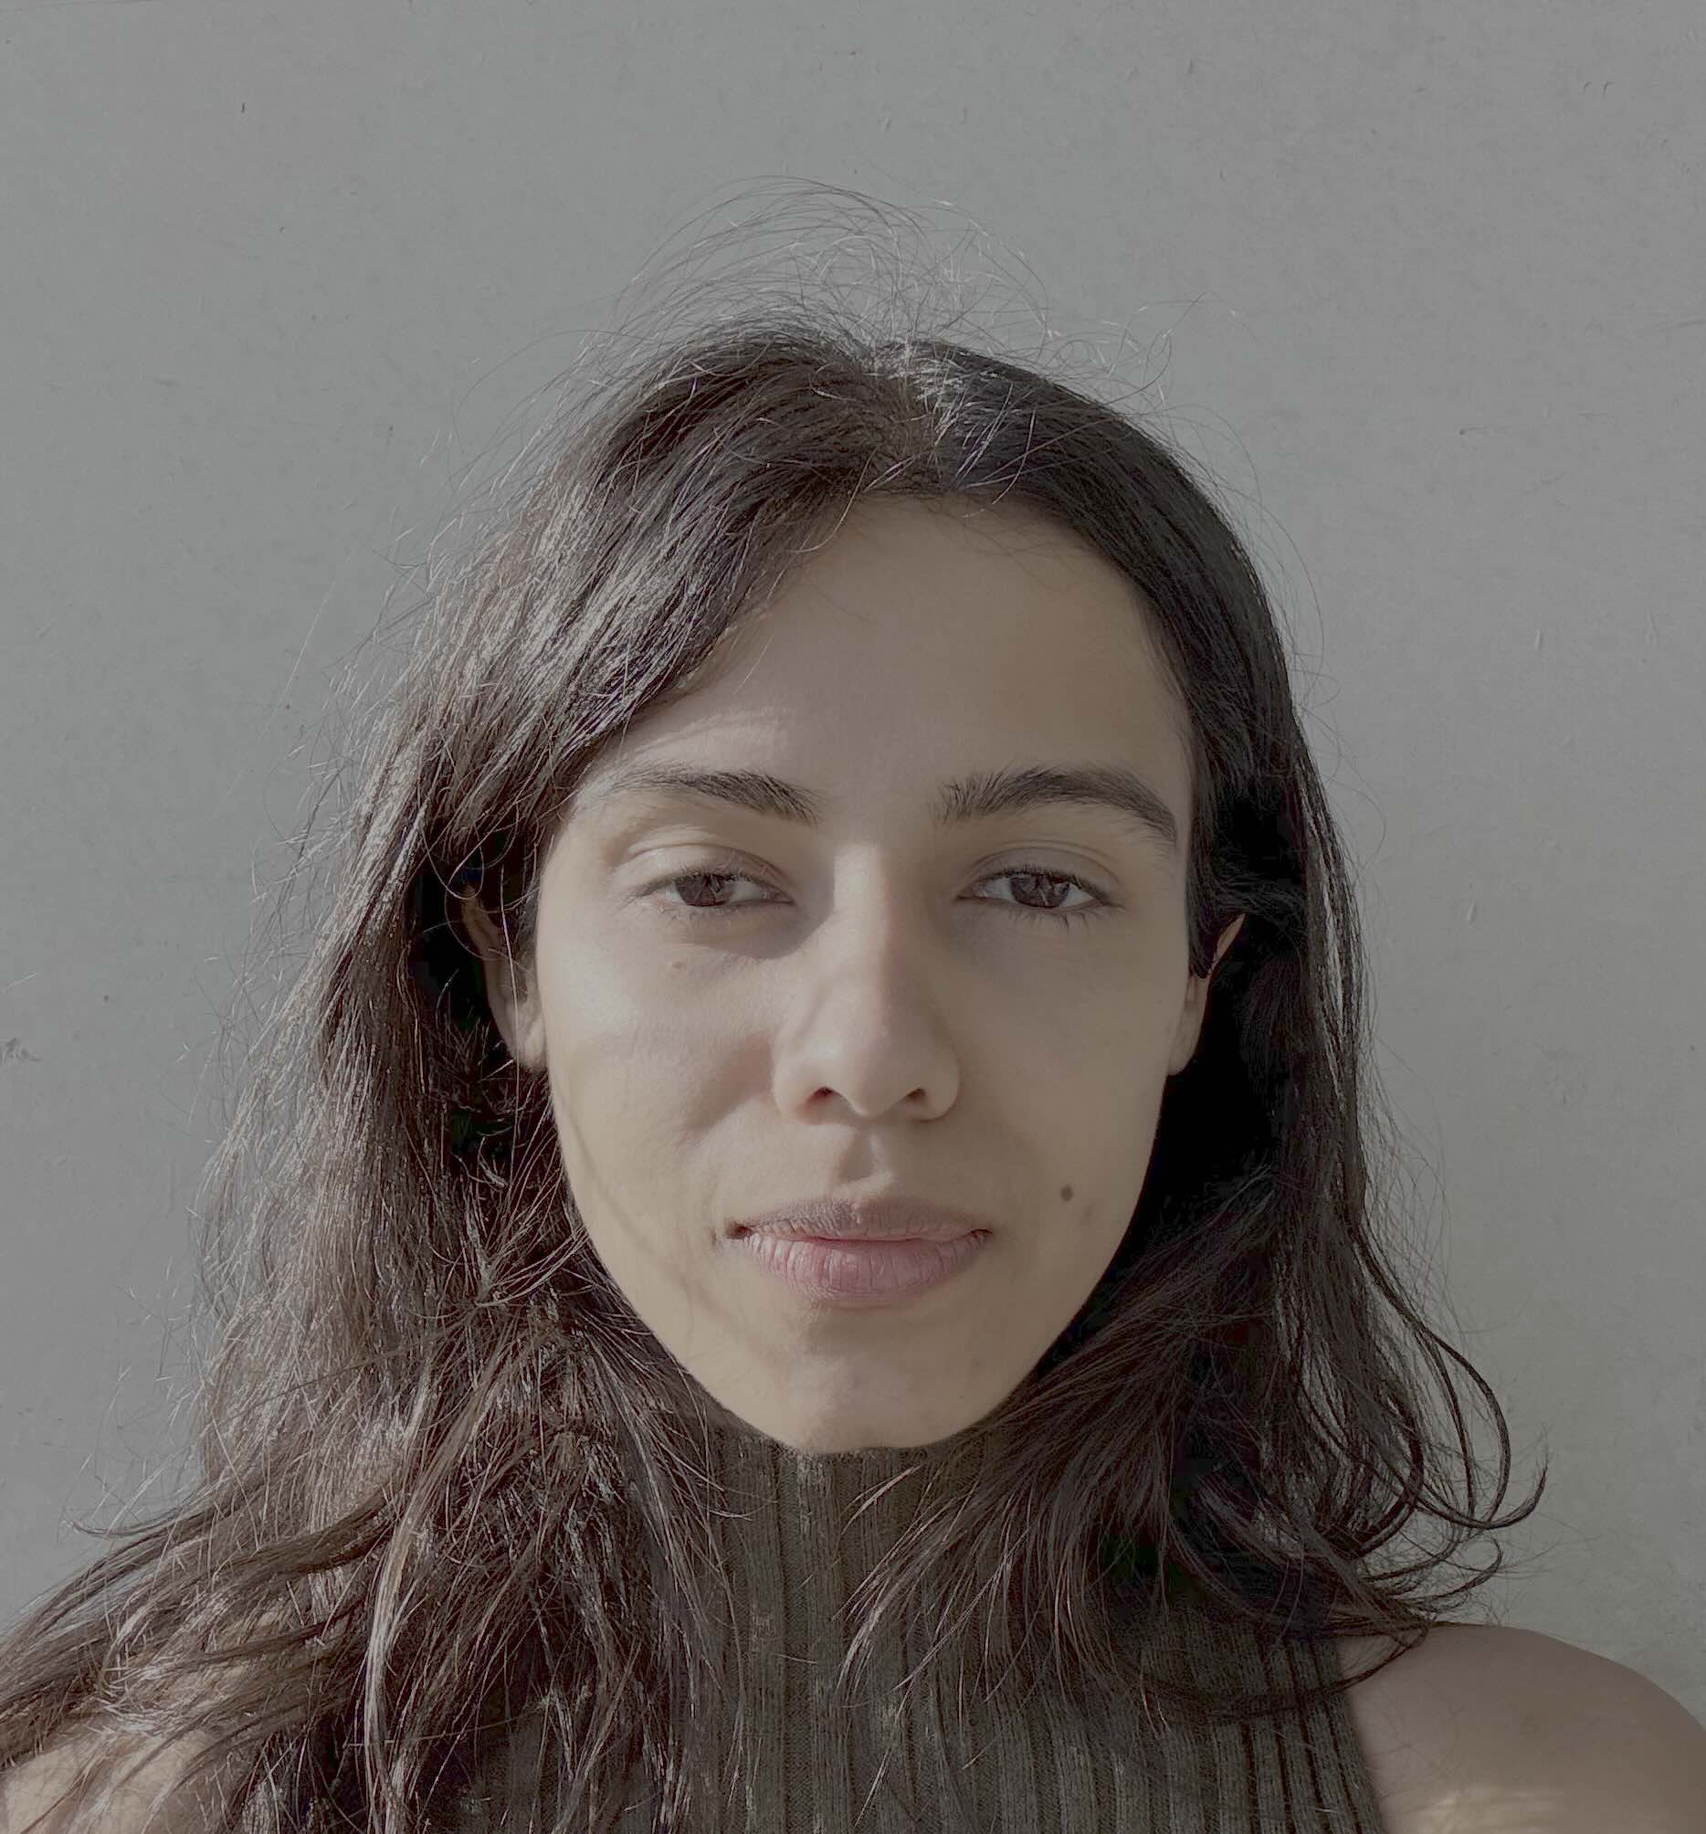
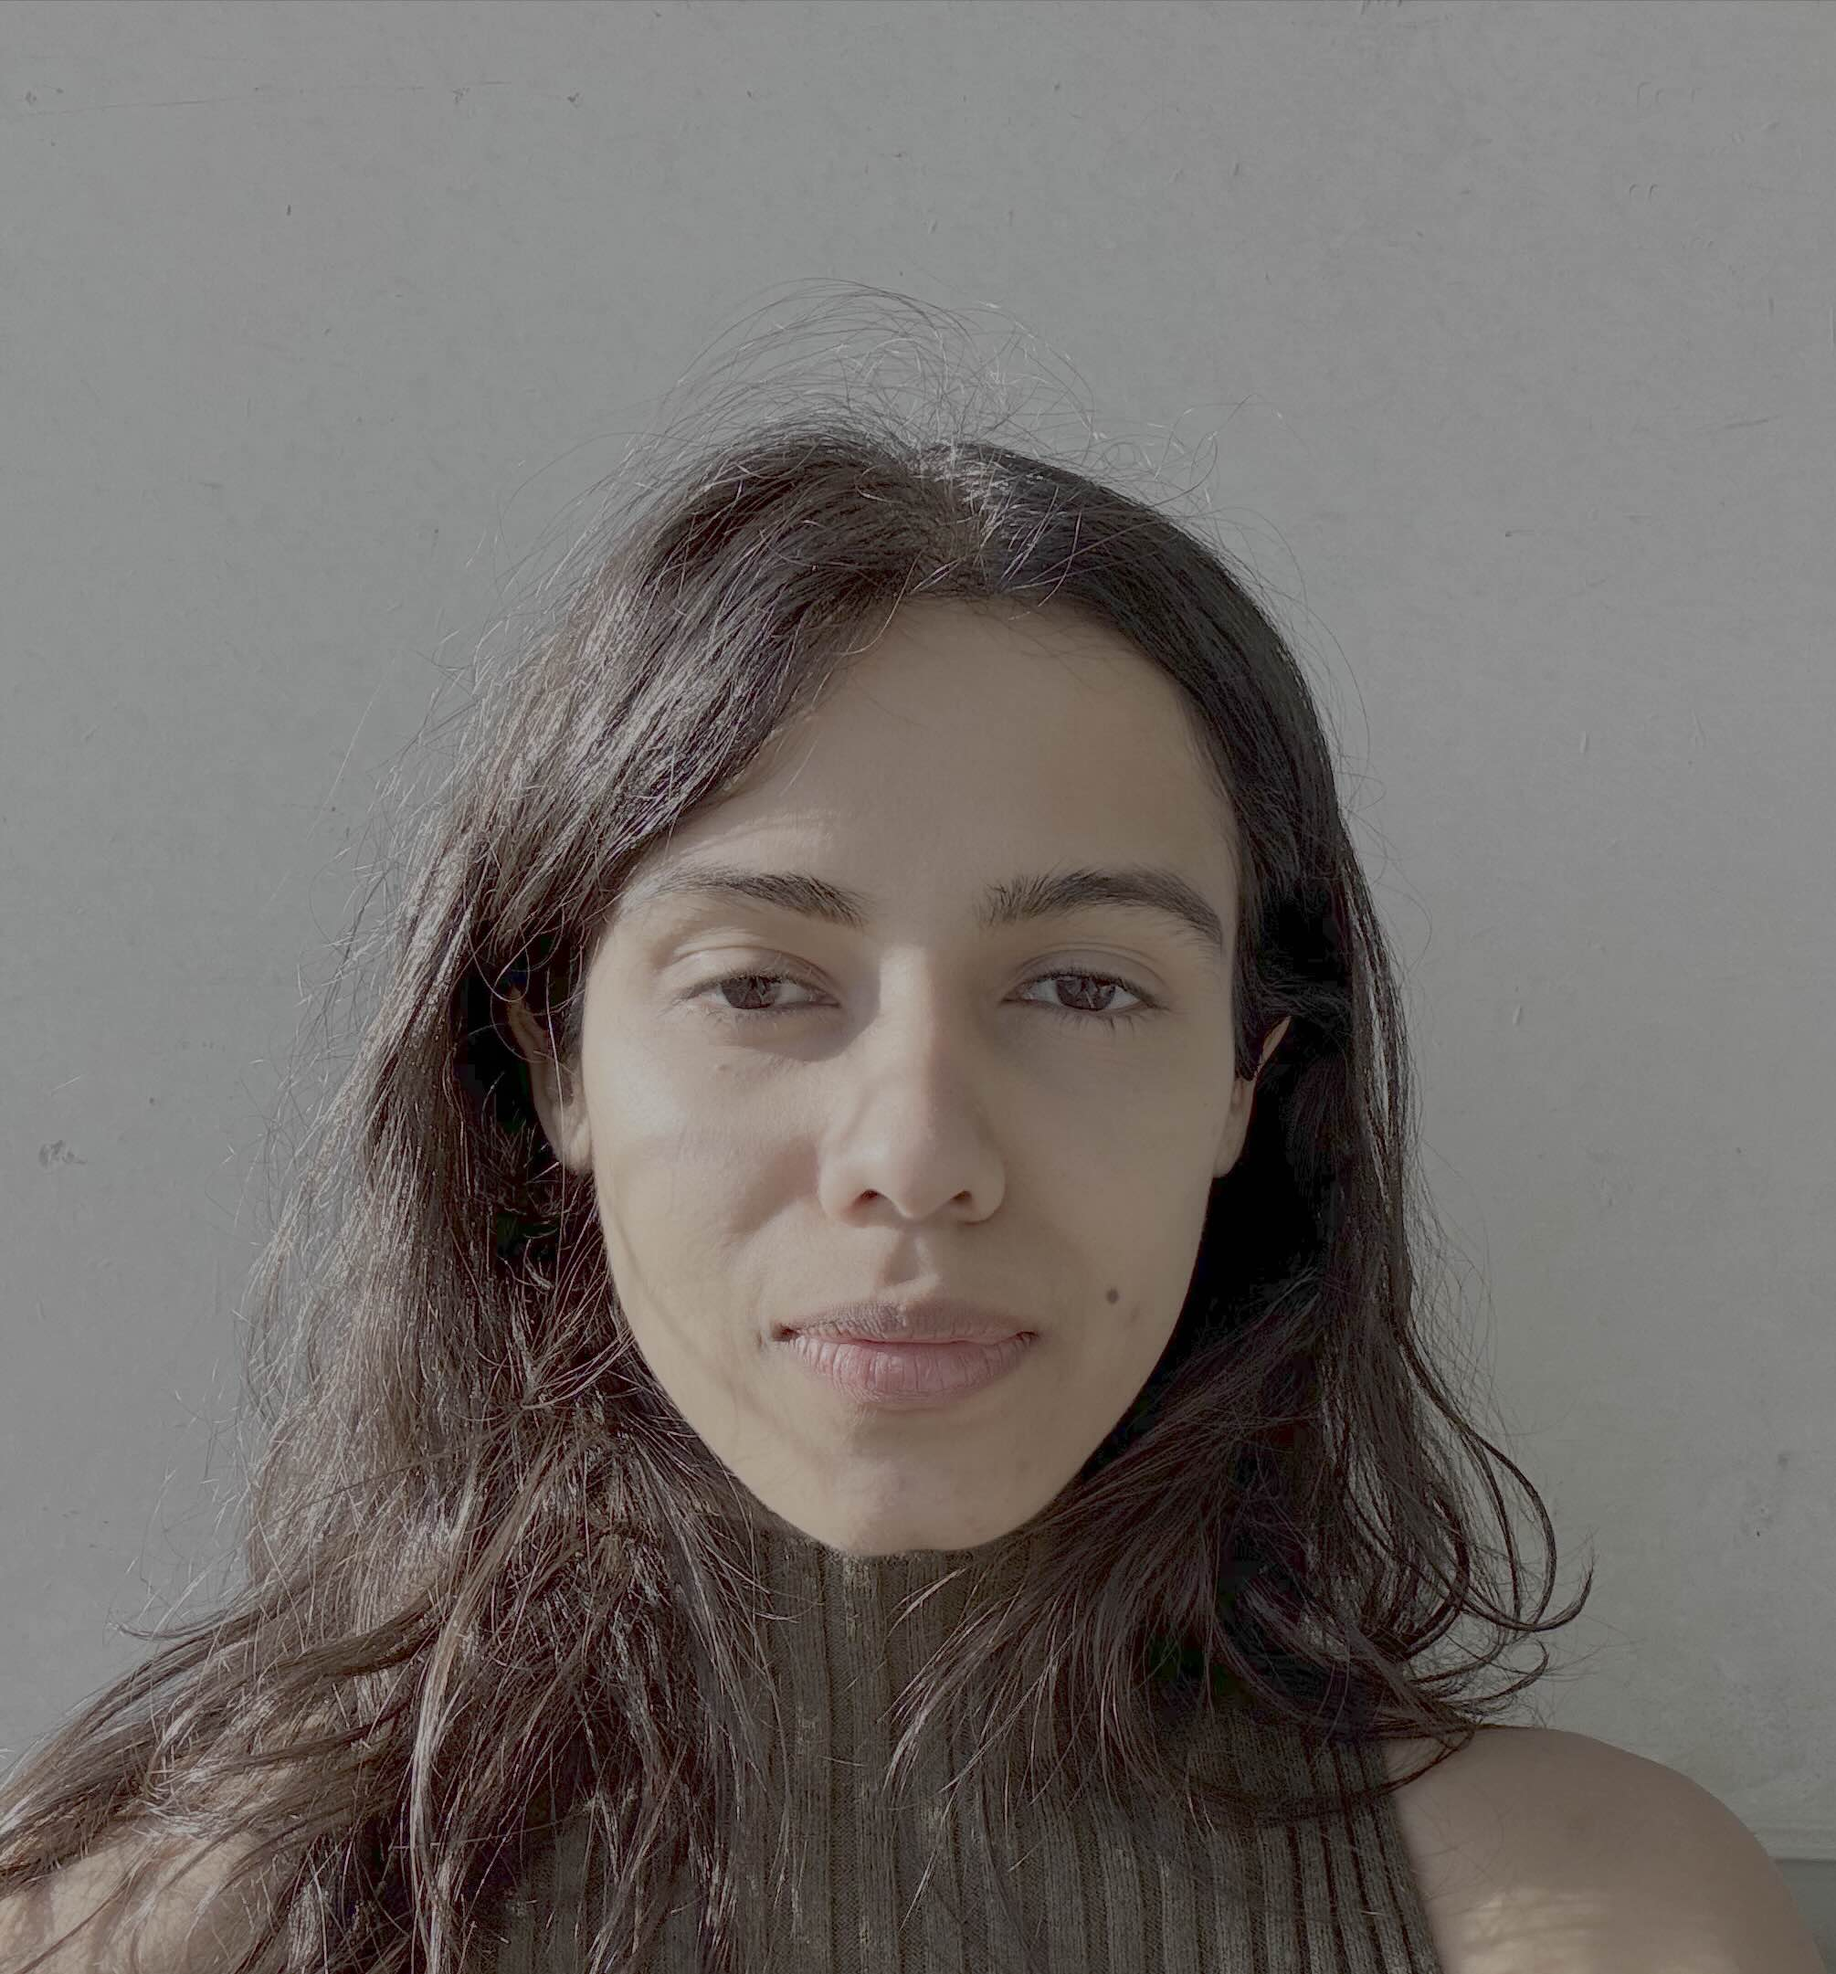
update assets

diff --git a/src/app/page.js b/src/app/page.js
@@ -273,7 +273,7 @@ export default function Home() {
               </div>
               <div className="hero-copy-col">
                 <div className="hero-icon">
-                  <img src="/home/hero-abstract-icon.png" alt="" />
+                  <img src="/home/stencil.png" alt="" />
                 </div>
               </div>
             </div>
